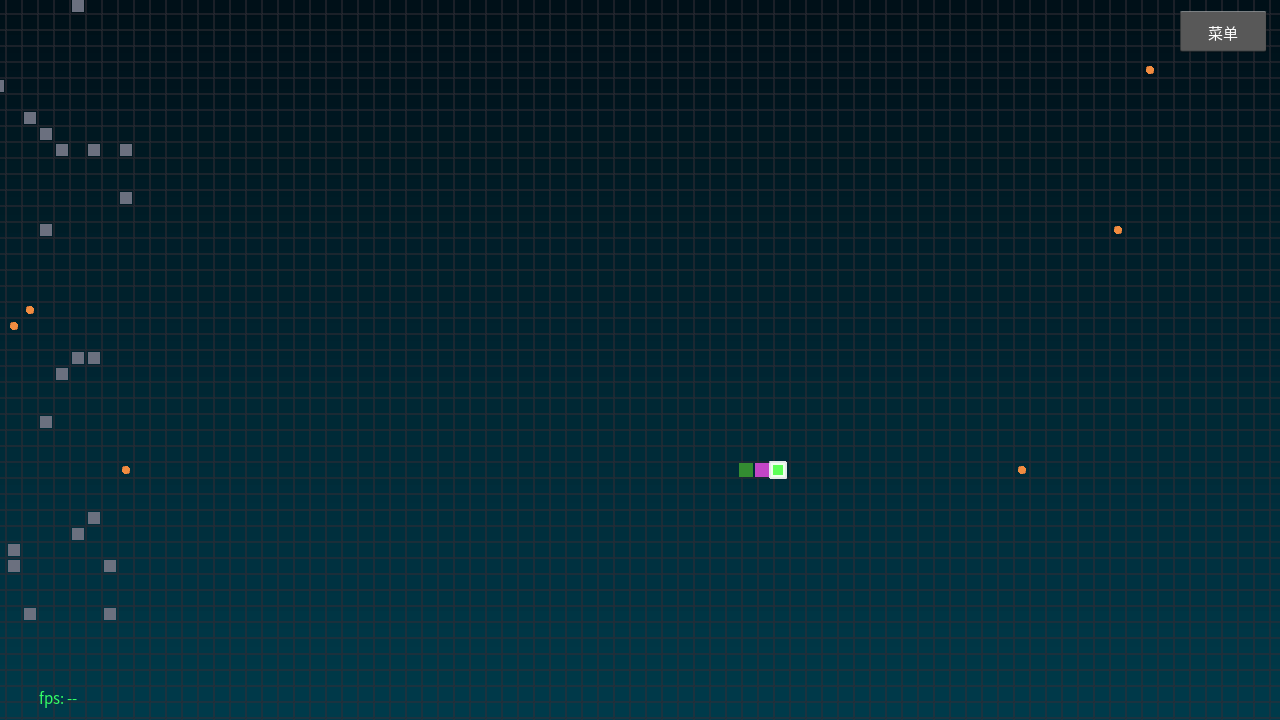
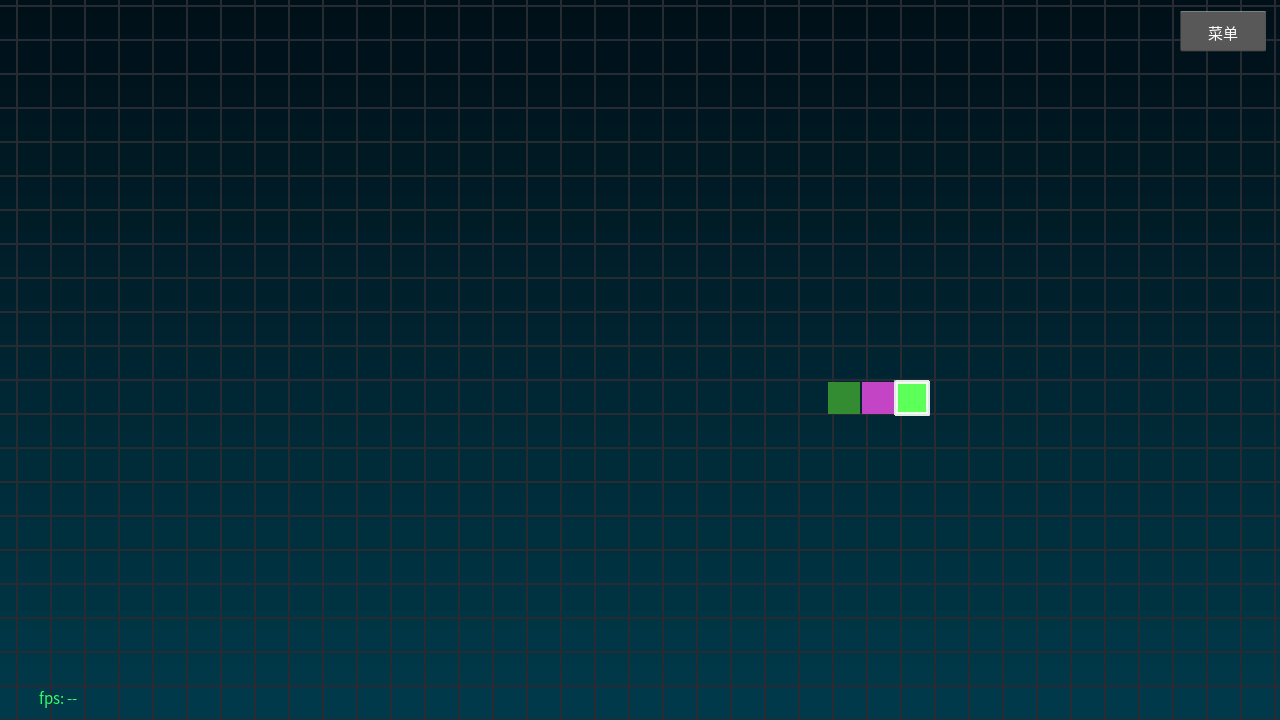
R5C: grid as single tiled-texture draw call; AI candidates 12, level2 back to +10 after death test

Changed region(s): [[0.0, 0.0, 1.0, 1.0]]

diff --git a/src/view/game_canvas.py b/src/view/game_canvas.py
@@ -17,6 +17,7 @@ from app import strings
 from app.theme import palette
 from core.colors import background_color, gradient_pair, snake_gradient
 from view.gradient_bg import gradient_texture
+from view.grid_tex import grid_tex_coords, grid_texture
 from app.fonts import font_name
 from core.camera import Camera
 from core.game import Game
@@ -204,15 +205,12 @@ class GameCanvas(Widget):
                 Color(br, bgc, bb, 1)
                 Rectangle(pos=self.pos, size=self.size)
 
-            Color(*self.colors["grid"])
-            x0, y0, x1, y1 = vp.visible_bounds()
             if self.show_grid:
-                for gx in range(x0, x1 + 1):
-                    sx = gx * g - vp.origin_x
-                    Line(points=[sx, 0, sx, self.height], width=1)
-                for gy in range(y0, y1 + 1):
-                    sy = gy * g - vp.origin_y
-                    Line(points=[0, sy, self.width, sy], width=1)
+                # 单张 16x16 平铺纹理：整屏网格 1 个 draw call（不再逐条 Line）
+                Color(*self.colors["grid"])
+                Rectangle(texture=grid_texture(), pos=self.pos, size=self.size,
+                          tex_coords=grid_tex_coords(vp.origin_x, vp.origin_y, g,
+                                                     self.width, self.height))
 
             Color(*self.colors["food"])
             food = g * 0.5

diff --git a/src/view/grid_tex.py b/src/view/grid_tex.py
@@ -1,0 +1,40 @@
+"""网格平铺纹理（R5C 渲染降载）：整屏网格 1 个 draw call。"""
+
+from __future__ import annotations
+
+from kivy.graphics.texture import Texture
+
+_TEX: Texture | None = None
+
+
+def grid_texture() -> Texture:
+    global _TEX
+    if _TEX is not None:
+        return _TEX
+    size = 16
+    buf = bytearray(size * size * 4)
+    for y in range(size):
+        for x in range(size):
+            i = (y * size + x) * 4
+            on_line = (x == 0) or (y == 0)
+            v = 255 if on_line else 0
+            buf[i:i + 4] = bytes((v, v, v, 255 if on_line else 0))
+    tex = Texture.create(size=(size, size))
+    tex.blit_buffer(bytes(buf), colorfmt="rgba", bufferfmt="ubyte")
+    tex.wrap = "repeat"
+    tex.mag_filter = "nearest"
+    tex.min_filter = "nearest"
+    _TEX = tex
+    return tex
+
+
+def grid_tex_coords(origin_x: float, origin_y: float, grid_size: float,
+                    width: float, height: float):
+    """按相机偏移对齐瓷砖，返回 Rectangle 的 tex_coords。"""
+    g = max(1.0, float(grid_size))
+    ox = (origin_x % g) / g
+    oy = (origin_y % g) / g
+    u1 = ox + width / g
+    v1 = oy + height / g
+    # Rectangle 需要 8 个值（4 个角）
+    return (ox, oy, u1, oy, u1, v1, ox, v1)

diff --git a/tools/bench_ai.py b/tools/bench_ai.py
@@ -2,23 +2,27 @@ import sys, time
 sys.path.insert(0, "src")
 
 from ai.session import AISession
+from core.chunk_manager import ChunkManager
 from core.game import Game
 
 SPEED = 16.0
 MAX_TICKS = 6000
+VIEW = 26   # 模拟视口半径（格）
 
 g = Game(20261022)
 g.clock.set_speed(SPEED)
+cm = ChunkManager(g.world, max_generate_per_update=16)
 s = AISession()
-dt = 1.0 / (10.0 * SPEED)   # 16x => 每帧推进 1 个 tick
+dt = 1.0 / (10.0 * SPEED)
+
 t0 = time.perf_counter()
-frames = 0
 while g.ticks < MAX_TICKS and g.state == "running":
+    hx, hy = g.snake.head
+    cm.update((hx - VIEW, hy - VIEW, hx + VIEW, hy + VIEW))   # 模拟真实 chunk 加载
     d = s.tick(g.world, g.snake, g.wrap_mode, speed=SPEED)
     if d is not None:
         g.set_direction(d)
     g.update(dt)
-    frames += 1
 
 wall = time.perf_counter() - t0
 print(f"speed={SPEED}x ticks={g.ticks} score={g.score} state={g.state} "

diff --git a/src/ai/controller.py b/src/ai/controller.py
@@ -21,7 +21,7 @@ STATE_DEAD = "DEAD"
 
 # 确定性降级顺序：上 → 右 → 下 → 左（D-018）
 FALLBACK_DIRS = ((0, 1), (1, 0), (0, -1), (-1, 0))
-MAX_FOOD_CANDIDATES = 4
+MAX_FOOD_CANDIDATES = 12   # R5C：扩大候选，避免只盯最近 4 个
 LOOP_WINDOW = 20
 LOOP_THRESHOLD = 3
 
